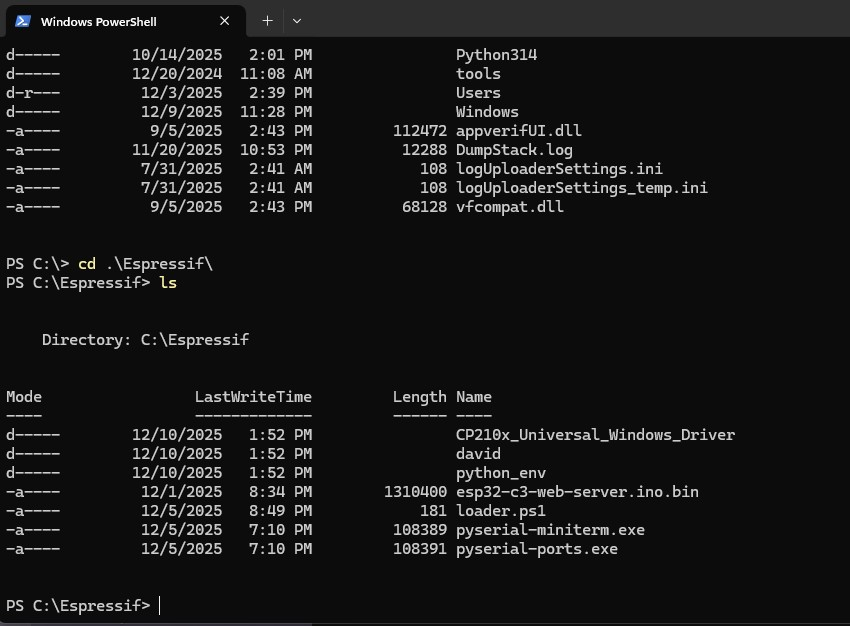
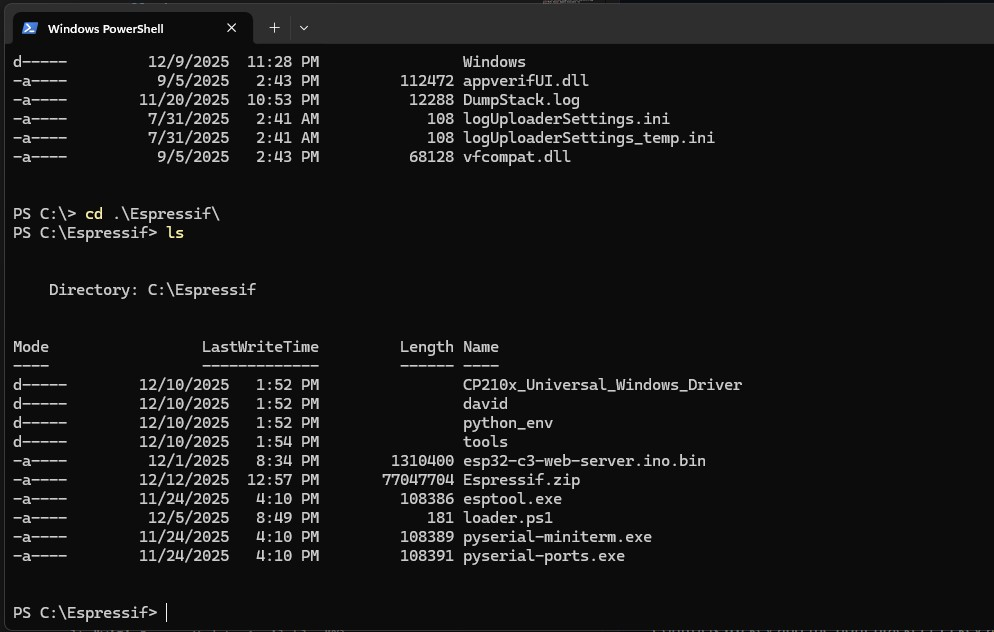
hide seltron and add select properties

diff --git a/pages/wifidocs/wifi32s-manual-update.md b/pages/wifidocs/wifi32s-manual-update.md
@@ -34,7 +34,8 @@ Figure 3.</center>
 
 ### Verify the Espressif folder was installed
 
-To verify the Espressif folder is in the list, type: "**cd .\Espressil**" ***(Enter)***  Followed by **ls** ***(Press Enter)*** to show the list of tools. As shown in Figure 4.  If the folder is not there review and repeat the Download Tools step.
+To verify the Espressif folder is in the list, type: **cd .\Espressil** ***(Enter)***  \
+Then type: **ls** ***(Press Enter)*** to show the list of tools. As shown in Figure 4.  If the folder is not there review and repeat the Download Tools step.
 <center>{% include image.html file="espressif4.jpg" alt="WiFi Sensor Update Available "%}
 Figure 4.</center>
 
@@ -59,7 +60,7 @@ Type the command: **.\loader.ps1 COM6** as shown in Figure 6, (replacing **COM6*
 <center>{% include image.html file="espressif6.jpg" alt="WiFi Sensor Update Available "%}
 Figure 6.</center>
 
-{% include note.html content="If you get an error like shown in Figure 6b, it means that Windows has blocked the application and it will need to be Unblocked. In Windows Explorer, in the C:\Espressif folder, right click on loader.ps1 and check the Unblock box. Then repeat with right click on the Esptools.exe and check the Unblock box. You can repeat the above step and the loader command should now work." %}
+{% include note.html content="If you get an error like shown in Figure 6b, it means that Windows has blocked the application and it will need to be Unblocked. In Windows Explorer, in the C:\Espressif folder, right click on loader.ps1, select  **Properties** and check the Unblock box. Then repeat with right click on the Esptools.exe, select  **Properties** and check the Unblock box. You can repeat the above step and the loader command should now work." %}
 <center>{% include image.html file="espressif6b.jpg" alt="File blocked "%}
 Figure 6b.</center>
 
